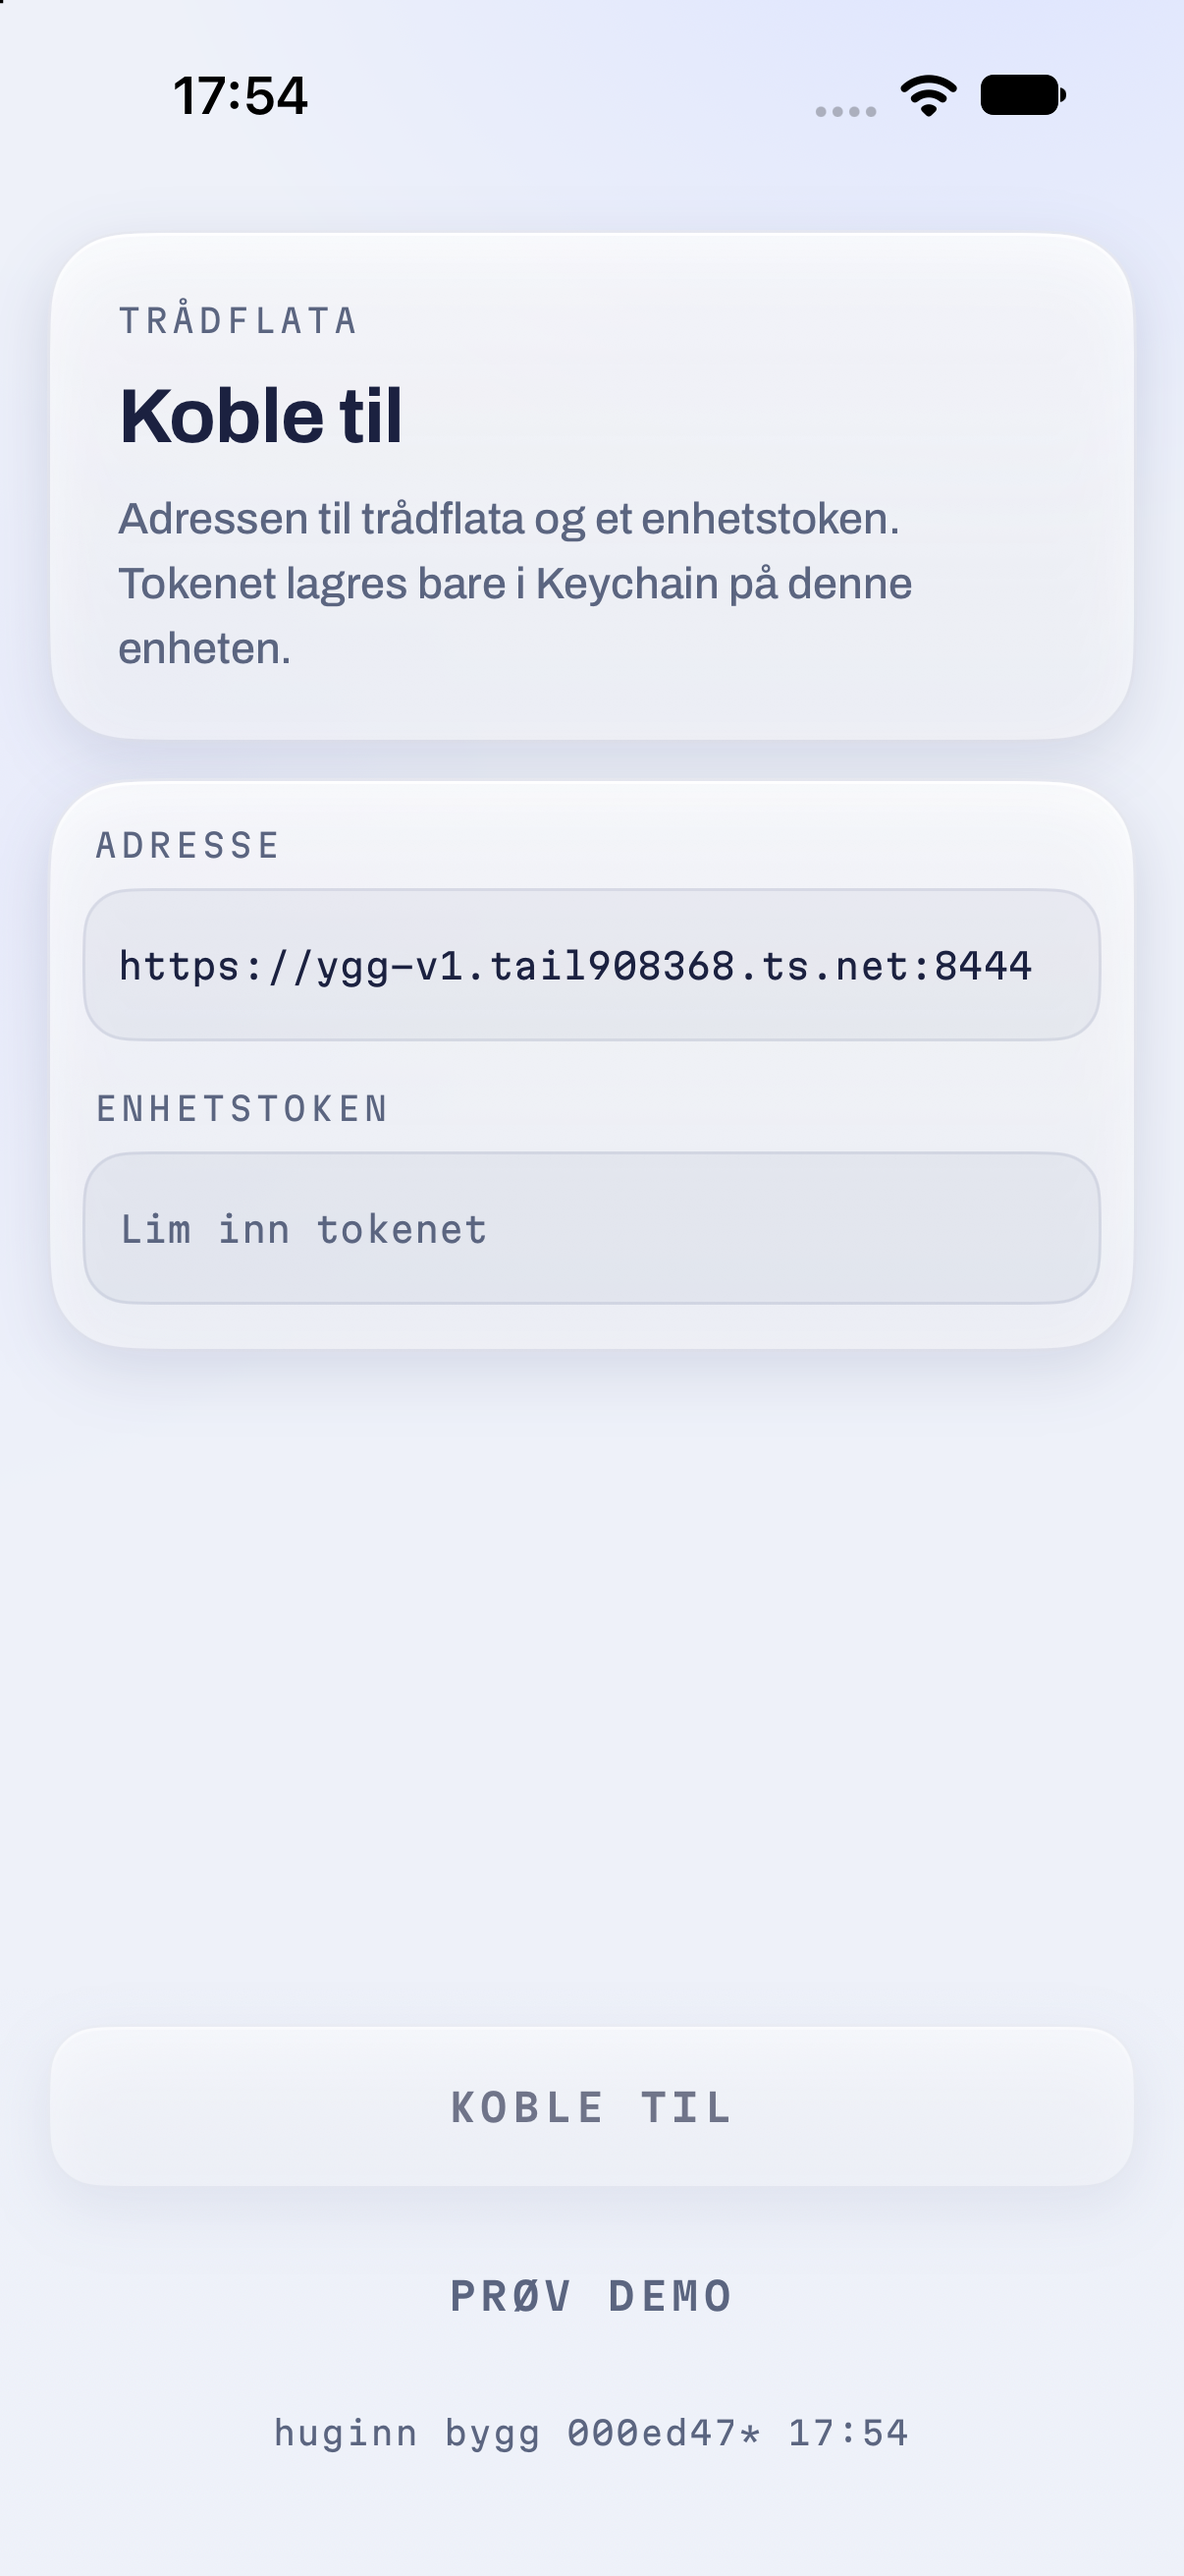
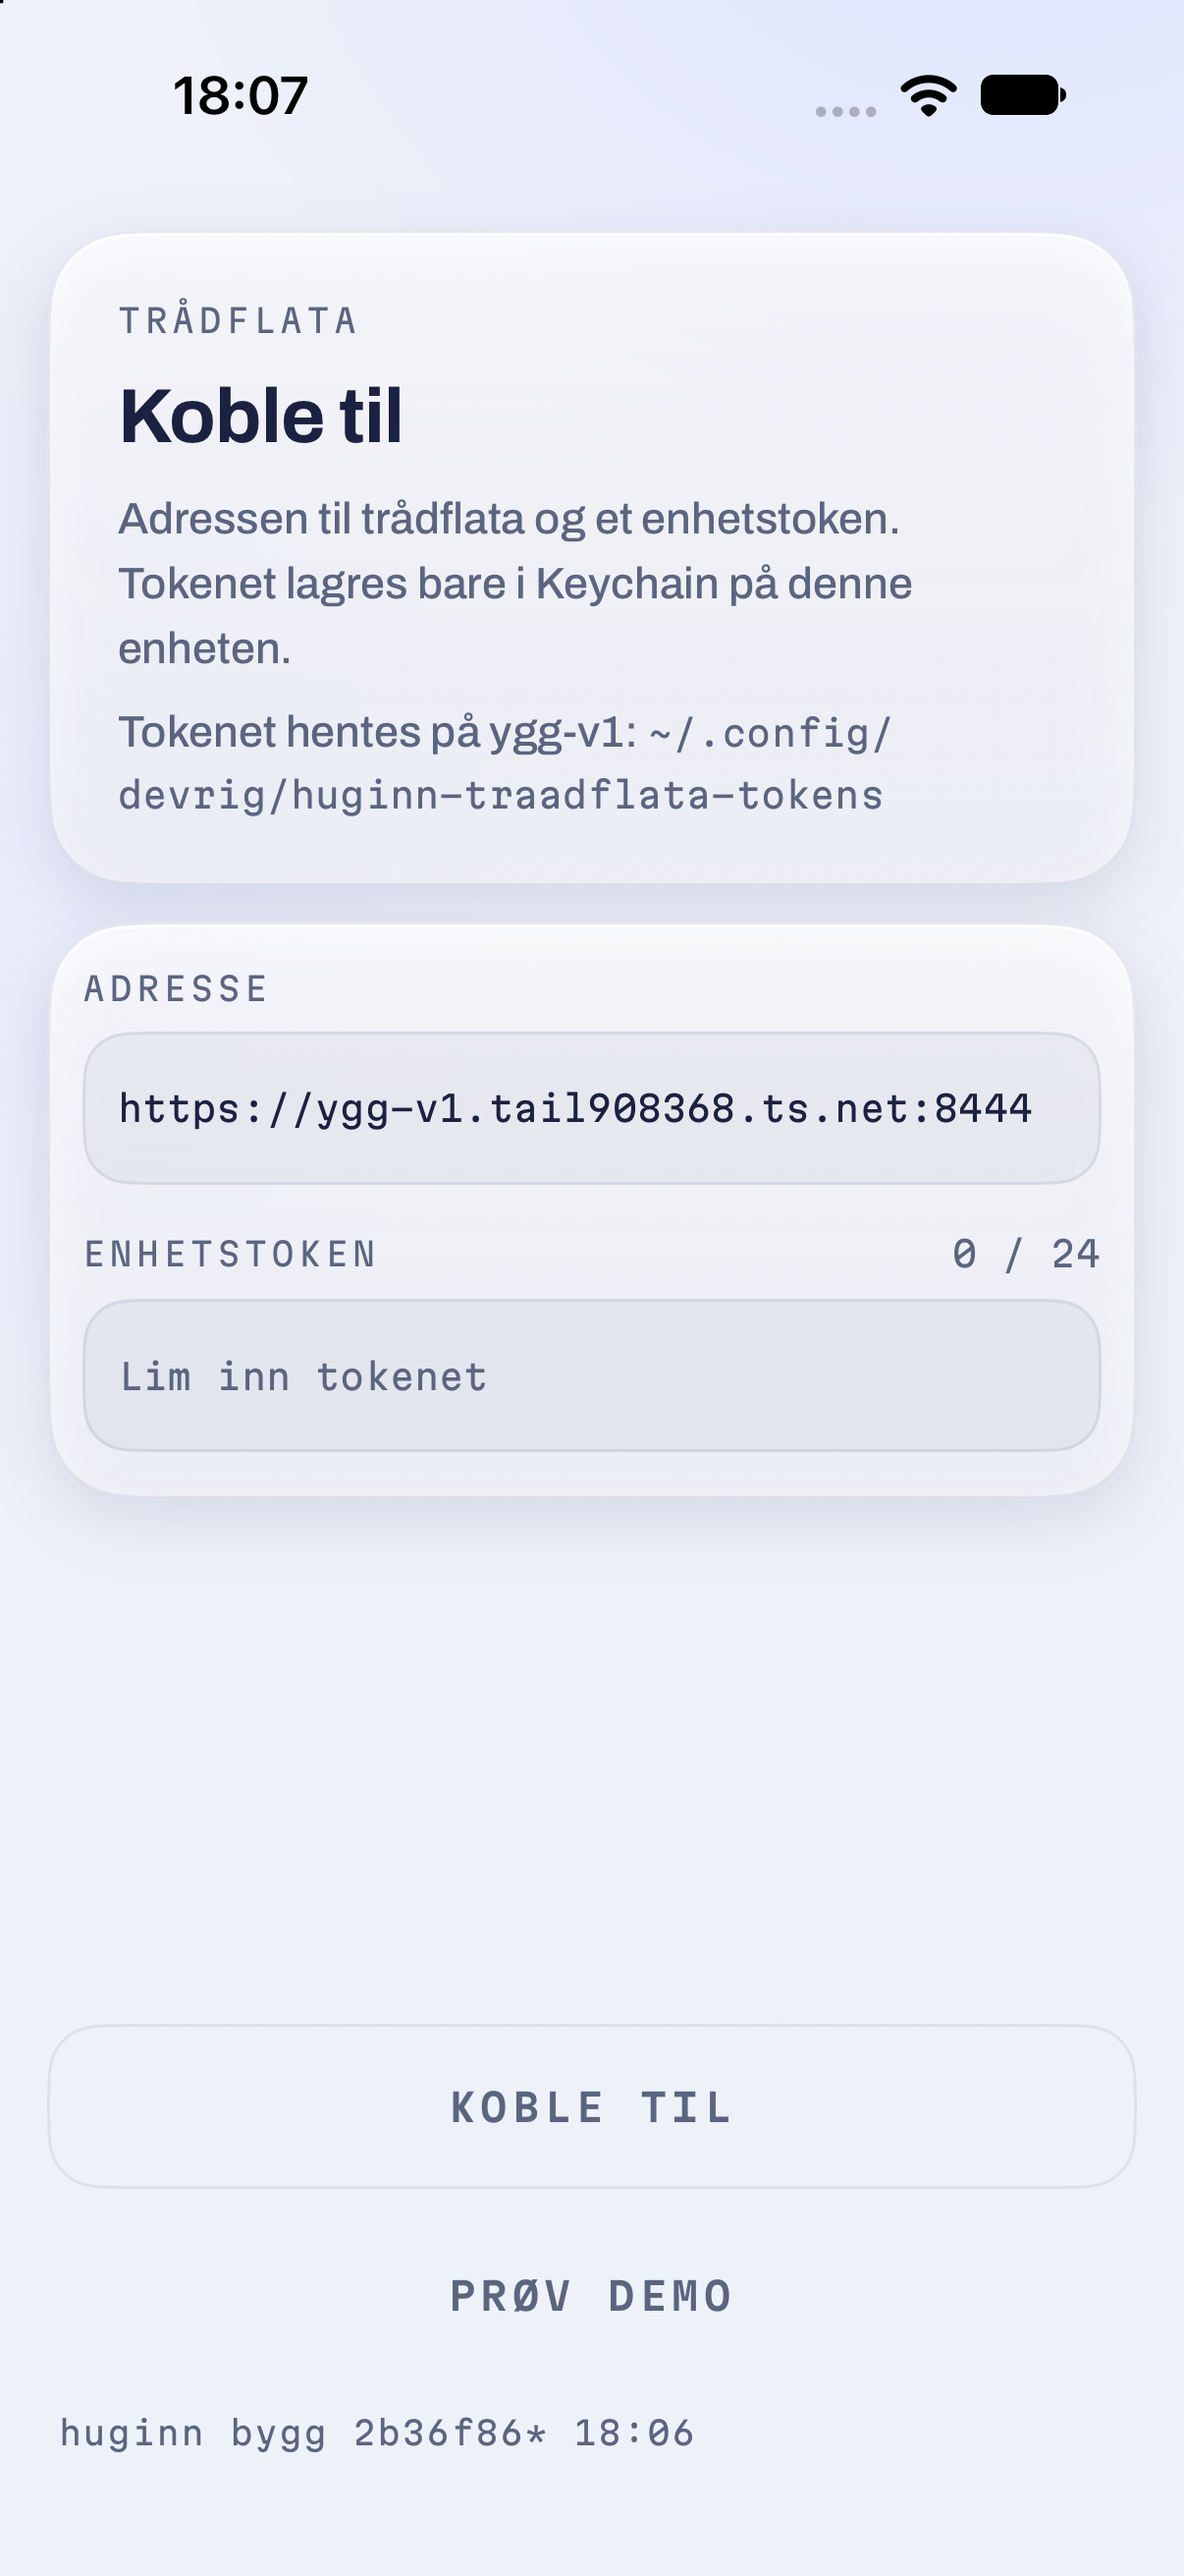
Koble til: skjermbilder etter review, forklaring viker for tastaturet
Forklaringsbrikken skjules mens et felt har fokus, så begge felt, feilraden og
«Koble til» er synlige over tastaturet uten å rulle. --fokus-token (DEBUG)
re-fokuserer etter et sendt forsøk. Nye skjermbilder: tom, feil, kobler,
tastatur (tom og feil), tilkoblingsark (live og demo), mørk og lys.

diff --git a/apple/Sources/KoblingView.swift b/apple/Sources/KoblingView.swift
@@ -56,7 +56,8 @@ struct KoblingView: View {
         let p = Theme.palett(for: scheme)
         ScrollView {
             VStack(spacing: Theme.Avstand.s3) {
-                overskrift(p)
+                // Forklaringen viker mens du skriver: med tastaturet oppe må begge felt og «Koble til» være synlige uten å rulle.
+                if fokus == nil { overskrift(p).transition(.opacity) }
                 felter(p)
                     // Dempet mens det kobles: feltene er låst, og det skal sees.
                     .opacity(kobler ? 0.55 : 1)
@@ -68,15 +69,17 @@ struct KoblingView: View {
             .frame(maxWidth: .infinity)
         }
         .scrollDismissesKeyboard(.interactively)
+        .animation(.easeOut(duration: Theme.Varighet.brikke), value: fokus)
         .background(Bakgrunn())
         // `safeAreaInset` følger tastaturet, så knappene ligger alltid over det.
         .safeAreaInset(edge: .bottom, spacing: 0) { bunn(p) }
         .task {
+            if sendVedStart { send() }
             if fokusVedStart {
-                try? await Task.sleep(for: .milliseconds(400))
+                // Etter et sendt forsøk venter vi til svaret (feilraden) er på plass.
+                try? await Task.sleep(for: .milliseconds(sendVedStart ? 2500 : 400))
                 fokus = .token
             }
-            if sendVedStart { send() }
         }
     }
 
